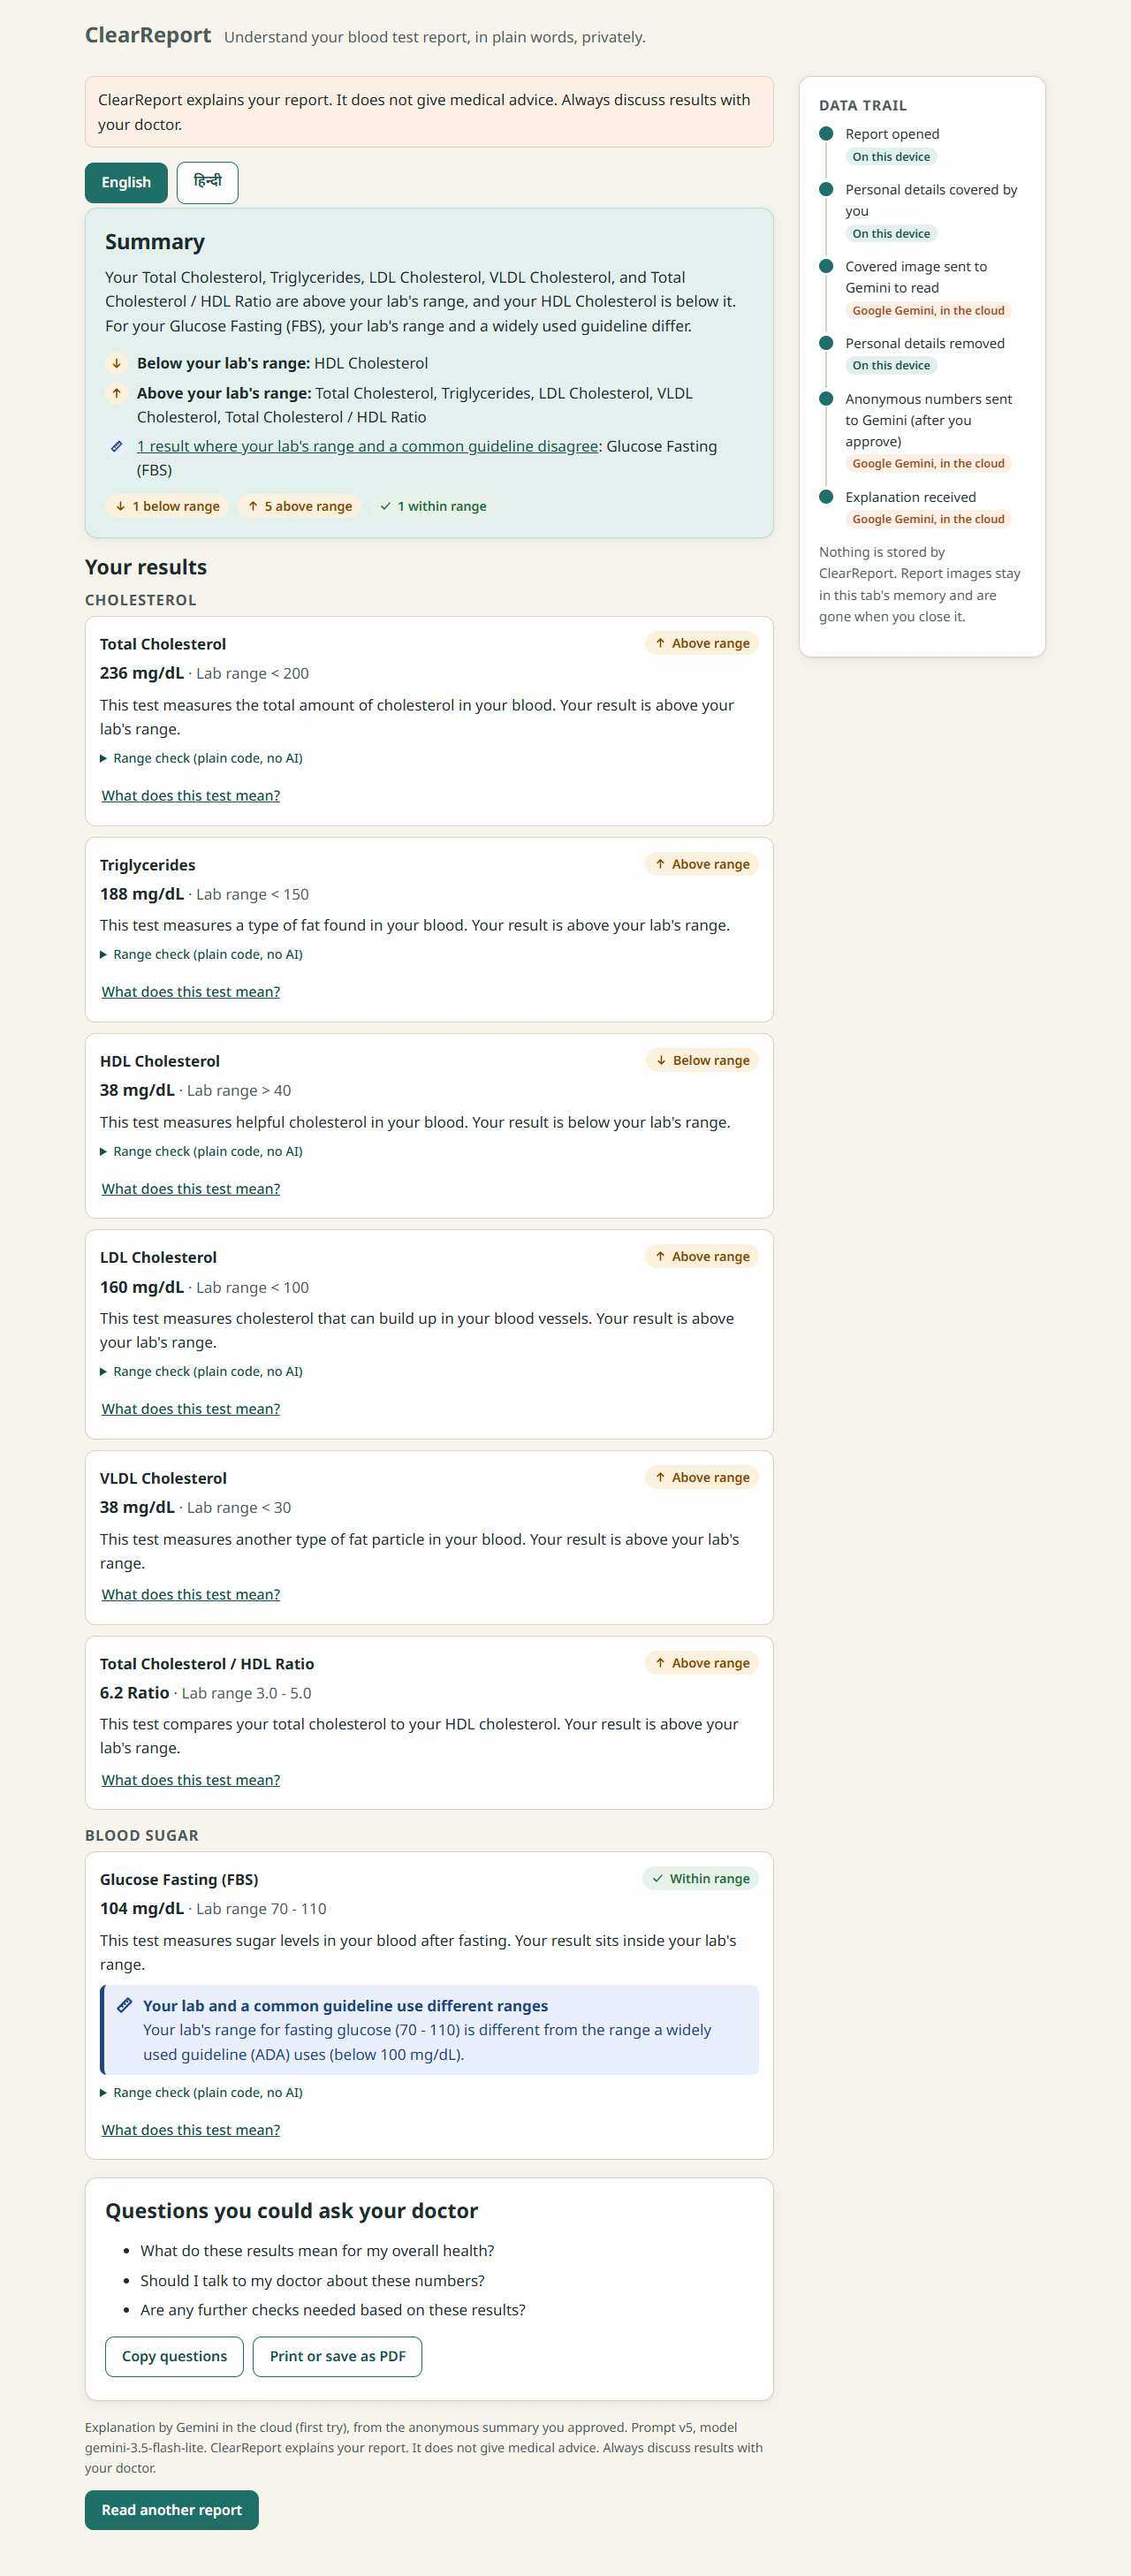
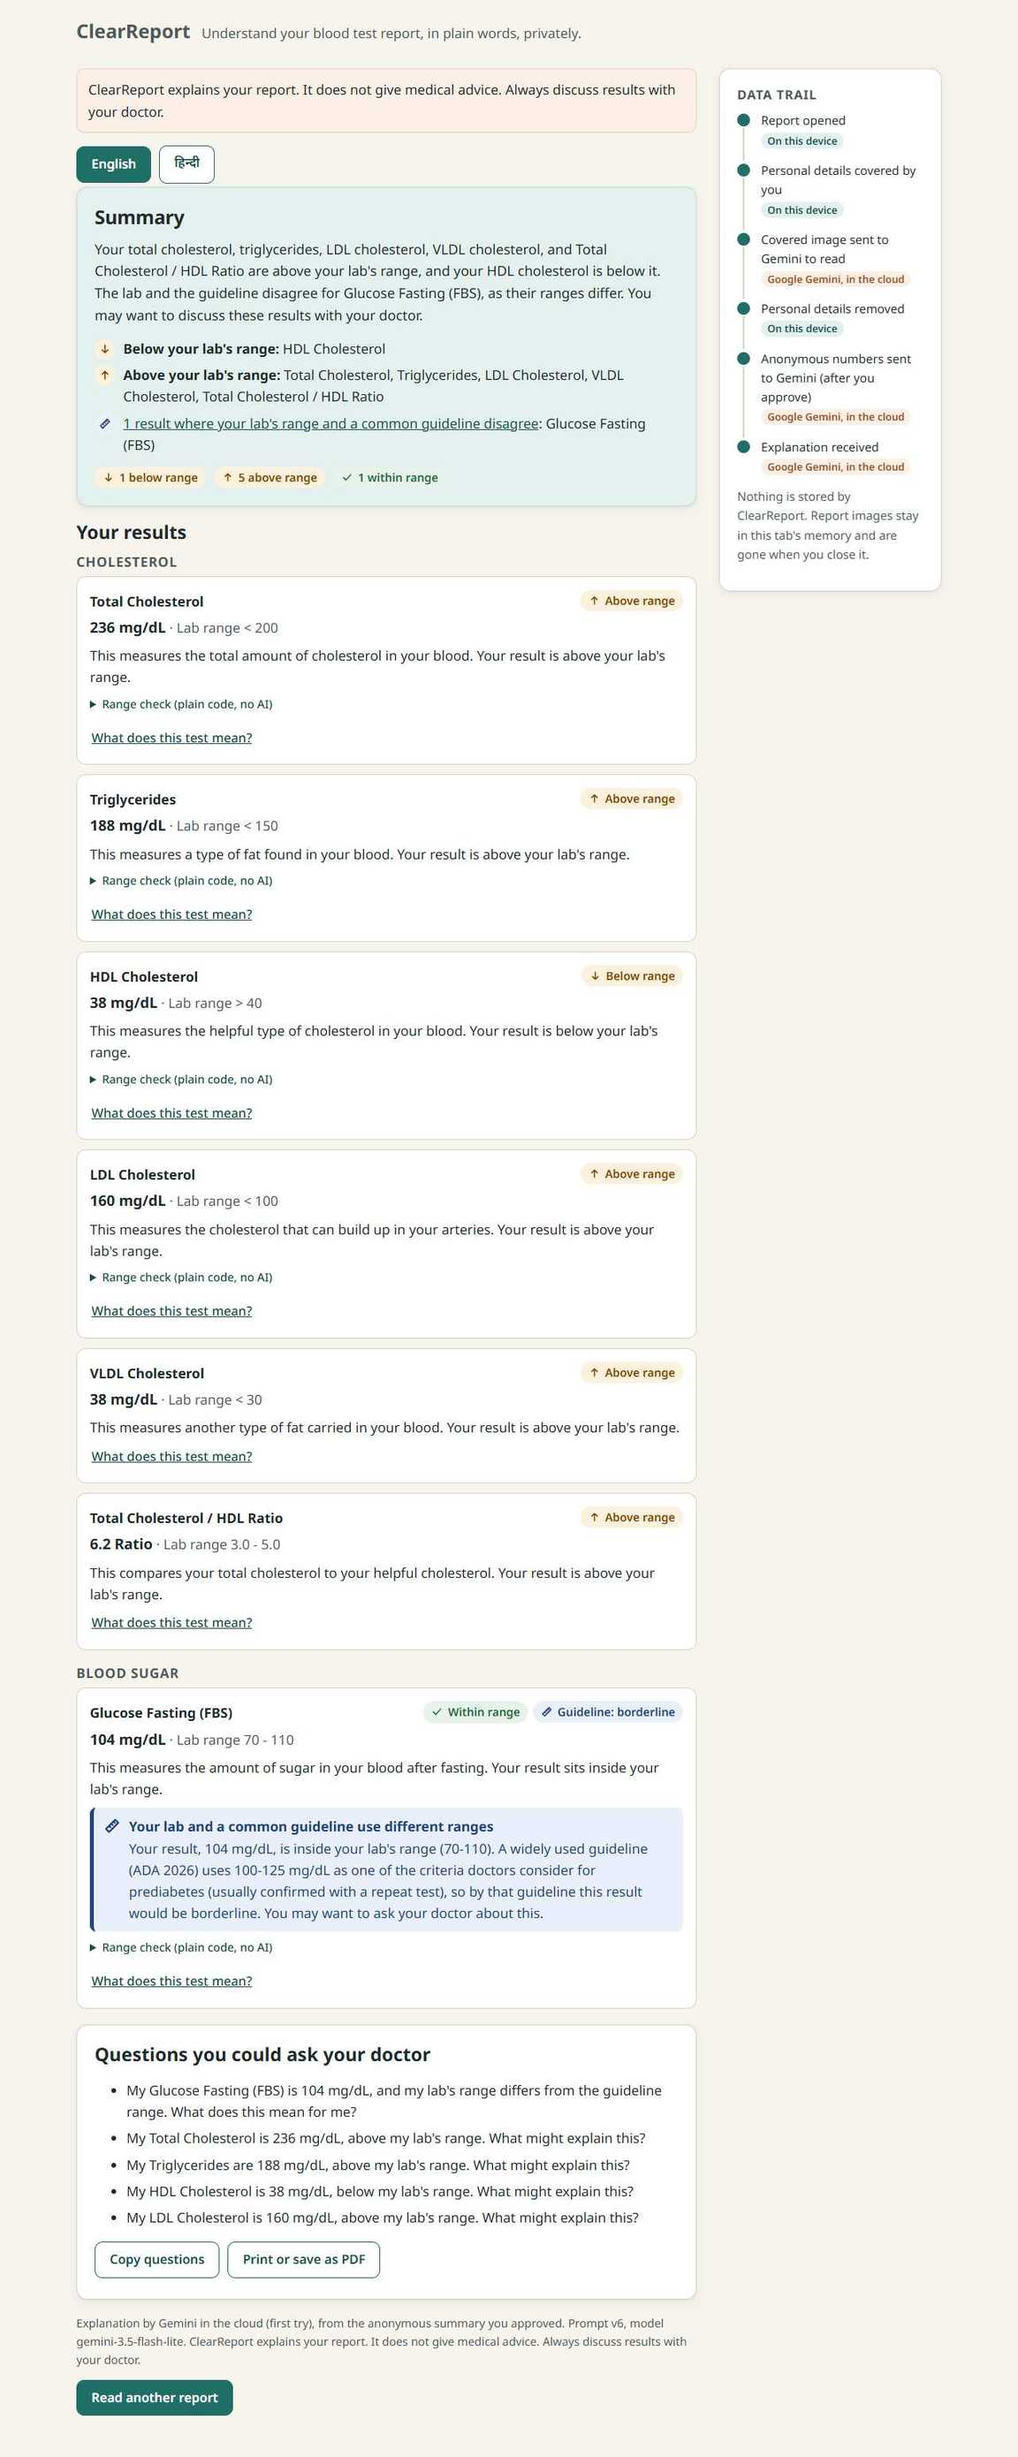
Screenshots: r2 and r6 explanations, desktop and mobile

diff --git a/scripts/screens.ts b/scripts/screens.ts
@@ -2,13 +2,18 @@
 // Runs against the dev server (npm run dev) with a synthetic report (r2: fake identity, a fasting glucose range that differs from a guideline), through Path 2.
 // Desktop: installed Chrome with a fresh profile, so its built-in AI shows as a one-time download.
 // Phone: the built-in AI is hidden, as on a phone, so the paths screen shows Private greyed out.
-// Usage: npx tsx scripts/screens.ts
+// Usage: npx tsx scripts/screens.ts [r2|r6], then python scripts/compress-shots.py.
 import { chromium } from 'playwright'
 import { mkdirSync, statSync } from 'node:fs'
 
 const URL = 'http://localhost:5173/'
 const OUT = 'docs/screenshots'
-const KEEP: Record<string, string[]> = { desktop: ['02-paths', '07-review', '08-explanation'], mobile: ['02-paths-no-ai', '05-mask', '08-explanation'] }
+// npx tsx scripts/screens.ts [r2|r6]: r2 takes every key screen; r6 only its explanation (08-explanation-r6-*).
+const ID = process.argv[2] ?? 'r2'
+const FILE = { r2: 'test-data/reports/r2.png', r6: 'test-data/reports/r6-photo.jpg' }[ID]!
+const KEEP: Record<string, string[]> = ID === 'r2'
+  ? { desktop: ['02-paths', '07-review', '08-explanation'], mobile: ['02-paths-no-ai', '05-mask', '08-explanation'] }
+  : { desktop: ['08-explanation'], mobile: ['08-explanation'] }
 mkdirSync(OUT, { recursive: true })
 
 const sizes = [{ tag: 'desktop', width: 1280, height: 860, mobile: false }, { tag: 'mobile', width: 390, height: 844, mobile: true }]
@@ -22,7 +27,7 @@ for (const s of sizes) {
   const shot = async (name: string) => {
     if (!KEEP[s.tag].includes(name)) return
     await page.waitForTimeout(300)
-    const path = `${OUT}/${name}-${s.tag}.jpg`
+    const path = `${OUT}/${name}${ID === 'r2' ? '' : `-${ID}`}-${s.tag}.jpg`
     await page.screenshot({ path, fullPage: true, type: 'jpeg', quality: 55 })
     console.log(`${path} ${Math.round(statSync(path).size / 1024)} KB`)
   }
@@ -36,7 +41,7 @@ for (const s of sizes) {
   if (s.mobile) await page.getByText('See how private reading works').click()
   await shot(s.mobile ? '02-paths-no-ai' : '02-paths')
   await click('Mask my details')
-  await page.setInputFiles('input[type=file]', 'test-data/reports/r2.png')
+  await page.setInputFiles('input[type=file]', FILE)
   const crop = page.getByRole('heading', { name: 'Straighten the photo' })
   const mask = page.getByRole('heading', { name: 'Cover your personal details' })
   await Promise.race([crop.waitFor(), mask.waitFor({ timeout: 120_000 })])

diff --git a/scripts/compress-shots.py b/scripts/compress-shots.py
@@ -1,0 +1,20 @@
+# Re-encodes docs/screenshots/*.jpg to stay under 200 KB each: lower JPEG quality first, then scale down.
+# Usage: python scripts/compress-shots.py  (needs Pillow)
+import glob
+import os
+
+from PIL import Image
+
+LIMIT = 195 * 1024
+for f in sorted(glob.glob('docs/screenshots/*.jpg')):
+    src = Image.open(f).convert('RGB')
+    im, q = src, 80
+    while True:
+        im.save(f, 'JPEG', quality=q, optimize=True, progressive=True)
+        if os.path.getsize(f) < LIMIT:
+            break
+        if q > 50:
+            q -= 5
+        else:
+            im = im.resize((int(im.width * 0.9), int(im.height * 0.9)), Image.LANCZOS)
+    print(f'{f}: {os.path.getsize(f) // 1024} KB, quality {q}, {im.width}x{im.height}')
